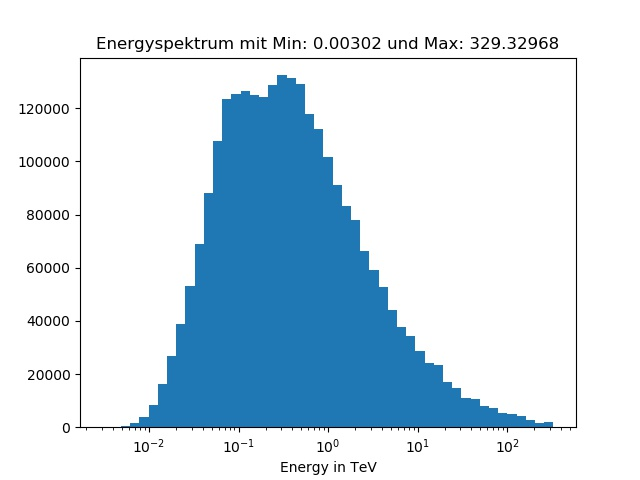
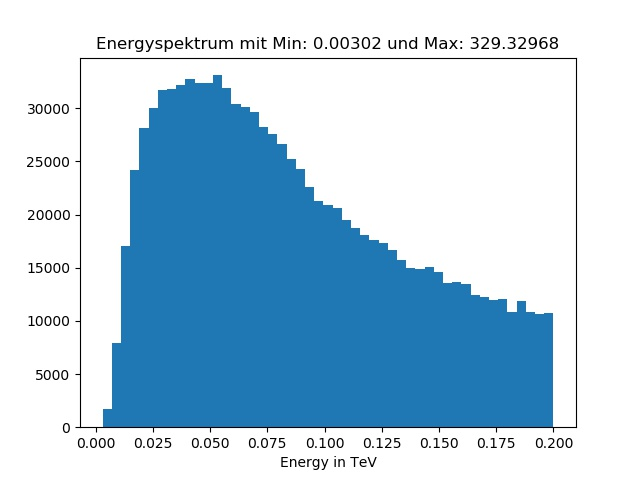
lm

diff --git a/algorithm/direction_reconstruction.py b/algorithm/direction_reconstruction.py
@@ -34,7 +34,9 @@ parser.add_argument('--diffuse', type=bool, default=True, help="Wanna have the d
 parser.add_argument('--size', type=int, default=103663, help="How much data you want to enquire?")
 
 
-def low_energy_pred():
+
+def direction_recon():
+
     args = parser.parse_args()
 
     data_size = args.size-1
@@ -95,83 +97,29 @@ def low_energy_pred():
 
         print("Finished with calculating Mean Scaled Values ... \n")
 
+
     data = shuffle(data)
 
-    #Energiespektrum erstellen
-    energy =  data['mc_energy']
-    minimum= min(energy)
-    maximum = max(energy)
-    bin_edges = np.logspace(np.log10(minimum),np.log10(maximum))
-    plt.hist(energy,bins=bin_edges)
-    plt.title("Energyspektrum mit Min: %.5f und Max: %.5f" % (minimum,maximum))
-    plt.xlabel("Energy in TeV")
-    plt.xscale('log')
-    plt.savefig("plots/energiespektrum_mit_diffuse.jpg")
-    plt.close()
+
 
     #drop unimportant DATA
     mc_attributes = list(['mc_az','mc_alt','mc_core_x','mc_core_y','mc_energy','mc_corsika_primary_id','mc_height_first_interaction'])
     mc_data = data[mc_attributes]
     data = data.drop(mc_attributes, axis=1)
-    droped_information = list(['psi','phi','telescope_type_name','x','y','telescope_id','pointing_altitude',
+    droped_information = list(['phi','telescope_type_name','telescope_id','pointing_altitude',
                                 'camera_name','camera_id','pointing_azimuth','r'])
     droped_data = data[droped_information].copy(deep=True)
     data = data.drop(droped_information,axis=1)
     prediction_attributes = list(['h_max_prediction','alt_prediction','az_prediction','core_x_prediction','core_y_prediction'])
     prediction_data = data[prediction_attributes]
     data = data.drop(prediction_attributes, axis=1)
-    truth = mc_data['mc_energy']
-    #fit and predict
-    RFr = RandomForestRegressor(max_depth=10, n_jobs=-1)
-    print("We use these attributes for the first RF: \n ",list(data))
+
+    
 
 
-    X=data.values
-    y=truth.values
-    y = np.log(y)
-    predictions = cross_val_predict(RFr, X, y, cv=10)
-
-    #Energiespektrum nach transformation
-    energy =  y
-    minimum= min(energy)
-    maximum = max(energy)
-    bin_edges = np.logspace(np.log10(minimum),np.log10(maximum))
-    plt.hist(energy,bins=bin_edges)
-    plt.title("Energyspektrum mit Min: %.5f und Max: %.5f" % (minimum,maximum))
-    plt.xlabel("Energy in TeV")
-    plt.xscale('log')
-    plt.savefig("plots/energiespektrum_mit_diffuse_after.jpg")
-    plt.close()
-
-    y = np.exp(y)
-    predictions = np.exp(predictions)
-
-    z=np.array([predictions,y])
-    np.savetxt("data/low_energy_pred_data.txt",z.T)
 
 
-    print('RandomForestRegressor:\n\t Coefficient for determination: %.2f \n' % r2_score(predictions,truth.values),
-            '\texplained_variance score: %.2f \n' % explained_variance_score(predictions,truth.values),
-            '\tmean squared error: %.2f \n' % mean_squared_error(predictions,truth.values),
-            "Finished with the first prediction ... \n")
-
-
-    min_energy = 0.0001
-    max_energy = 1
-    bin_edges = np.logspace(np.log10(min_energy),np.log10(max_energy),50)
-
-    func.plot_hist2d(predictions, y, min_energy, max_energy, bin_edges)
-    plt.savefig("plots/low_energy_low.jpg")
-    plt.close()
-
-    min_energy = 0.0001
-    max_energy = 350
-    bin_edges = np.logspace(np.log10(min_energy),np.log10(max_energy),50)
-
-    func.plot_hist2d(predictions, y, min_energy, max_energy, bin_edges)
-    plt.savefig("plots/low_energy_whole.jpg")
-    plt.close()
 
 
 if __name__ == '__main__':
-	low_energy_pred()
+    direction_recon()

diff --git a/algorithm/test.py b/algorithm/test.py
@@ -1,0 +1,45 @@
+import numpy as np
+import matplotlib.pyplot as plt
+from scipy.optimize import curve_fit
+
+def gerade(x,m,b):
+    return m*x+b
+
+# erste Ellipse
+
+x1=1
+y1=2
+psi1=np.pi/5
+
+#zweite Ellipse
+
+x2=3
+y2=3
+psi2=np.pi/2
+
+#dritte Ellipse
+
+x3=4
+y3=5
+psi3=np.pi/7
+
+
+#Berechnen der Geraden
+
+m1 = y1-np.tan(psi1)*x1/(x1+np.tan(psi1)*y1)
+b1 = y1 + np.tan(psi1)*x1**2/(x1+np.tan(psi1)*y1) - x1*y1/(x1+np.tan(psi1)*y1)
+
+m2 = y2-np.tan(psi2)*x2/(x2+np.tan(psi2)*y2)
+b2 = y2 + np.tan(psi2)*x2**2/(x2+np.tan(psi2)*y2) - x2*y2/(x2+np.tan(psi2)*y2)
+
+m3 = y3-np.tan(psi3)*x3/(x3+np.tan(psi3)*y3)
+b3 = y3 + np.tan(psi3)*x3**2/(x3+np.tan(psi3)*y3) - x3*y3/(x3+np.tan(psi3)*y3)
+
+x=np.linspace(-3,3)
+plt.plot(x,gerade(x,m1,b1),'b-',label="(1,2);pi/5")
+plt.plot(1,2,'bx')
+plt.plot(x,gerade(x,m2,b2),'g-',label="(3,3);pi/2")
+plt.plot(3,3,'gx')
+plt.plot(x,gerade(x,m3,b3),'k-',label="(4,5);pi/7")
+plt.plot(4,5,'kx')
+plt.show()

diff --git a/algorithm/test2.py b/algorithm/test2.py
@@ -51,13 +51,25 @@ gamma_merge = gamma_merge.set_index(['run_id','array_event_id'])
 gamma_merge = gamma_merge.dropna(axis=0)
 data = gamma_merge
 
+def poisson(k,lamb,C):
+    return lamb**k/sc.misc.factorial(k)*np.exp(-lamb) + C
+
 energy =  data['mc_energy']
+N = energy.shape[0]
+hist,bin = np.histogram(energy,range=(0,0.2))
+params, pcov = sc.optimize.curve_fit(poisson,bin[1:],hist/N,p0=(3,5))
+x = np.linspace(0,0.2,60)
+plt.plot(x, poisson(x,*params),'r-')
+plt.plot(bin[1:], hist/N, 'b.')
+plt.show()
+plt.close()
+
+
 minimum= min(energy)
 maximum = max(energy)
-bin_edges = np.logspace(np.log10(minimum),np.log10(maximum))
+bin_edges = np.linspace(minimum,0.2)
 plt.hist(energy,bins=bin_edges)
 plt.title("Energyspektrum mit Min: %.5f und Max: %.5f" % (minimum,maximum))
 plt.xlabel("Energy in TeV")
-plt.xscale('log')
 plt.savefig("plots/energiespektrum.jpg")
 plt.close()
